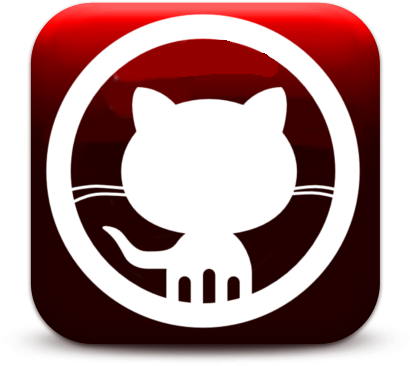
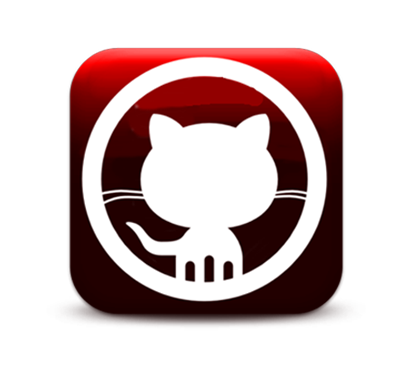
Changed images sizes

diff --git a/index.html b/index.html
@@ -7,6 +7,7 @@
    <title>Christopher's Portfolio</title>
    <link href="css/bootstrap.min.css" rel="stylesheet">
 <link href='http://fonts.googleapis.com/css?family=Crimson+Text:400,700' rel='stylesheet' type='text/css'>   <link href="css/navcolors.css" rel="stylesheet">
+
    <!-- HTML5 shim and Respond.js for IE8 support of HTML5 elements and media queries -->
     <!-- WARNING: Respond.js doesn't work if you view the page via file:// -->
     <!--[if lt IE 9]>
@@ -27,6 +28,7 @@
 </nav>
 <section id="wood" data-speed="6" data-type="background">
 <h1 class="text-center first">I think its about time we worked together!</h1>
+<h2 class="text-center first">So lets make things better!</h2>
 </section>
 <section id="tools">
   <h1 class="text-center">Tools of the Trade</h1>
@@ -57,10 +59,10 @@
         <img class="img-thumbnail" src="_images/github.png">
         <div class="caption git">
         <h2 class="text-center">GitHub</h2>
-            <p class="text-center">My preferred text editor</p>
-            <p class="text-center">Multiple Add-On options</p>
-            <p class="text-center">Plethora of color themes</p>
-            <p class="text-center">Built in code validator</p>
+            <p class="text-center">Subversion Control System</p>
+            <p class="text-center">Multiple Projects Stored On-line</p>
+            <p class="text-center">Collaborate with Contributers</p>
+            <p class="text-center">Roll Back to Previous Versions</p>
         </div>
       </div>
     </div>
@@ -90,7 +92,21 @@
     </div>
   </div>
 </section>
-
+<section id="work">
+  <h1 class="text-center">Examples of my Work</h1>
+  <div class="container">
+    <div class="row row-centered">
+      <div class="col-lg-12 col-centered col-min clearfix">
+        <hr/>
+          <p class="text-center">This is a sampling of some of the work I have done.</p>
+        <hr/>
+      </div>
+    </div>
+  </div>
+  <div class="row">
+    
+  </div>
+</section>
   <!-- jQuery (necessary for Bootstrap's JavaScript plugins) -->
     <script src="https://ajax.googleapis.com/ajax/libs/jquery/1.11.2/jquery.min.js"></script>
     <!-- Include all compiled plugins (below), or include individual files as needed -->

diff --git a/css/navcolors.css b/css/navcolors.css
@@ -77,6 +77,14 @@ h1.first{
 	padding-top: 350px;
 	color: #fff;
 	line-height: 2em;
+	padding-bottom: 40px;
+}
+h2.first{
+	font-family: arvil, sans-serif;
+	font-size: 3em;
+	color: #fff;
+	line-height: 2em;
+	padding-bottom: 40px;
 }
 h1{
 	font-size: 4em;
@@ -128,6 +136,7 @@ hr{
 	background-color: transparent;
 	border: none;
 }
+
 @font-face{
 font-family: 'blackchancery';
 src: url(../fonts/BLKCHCRY.TTF);}
@@ -151,10 +160,7 @@ src: url(../fonts/BLKCHCRY.TTF);}
 		padding-top: 20px;
 		padding-bottom: 20px
 	}
-	.img-thumbnail{
-		max-width: 260px;
-	}
-}
+
 
 
 
